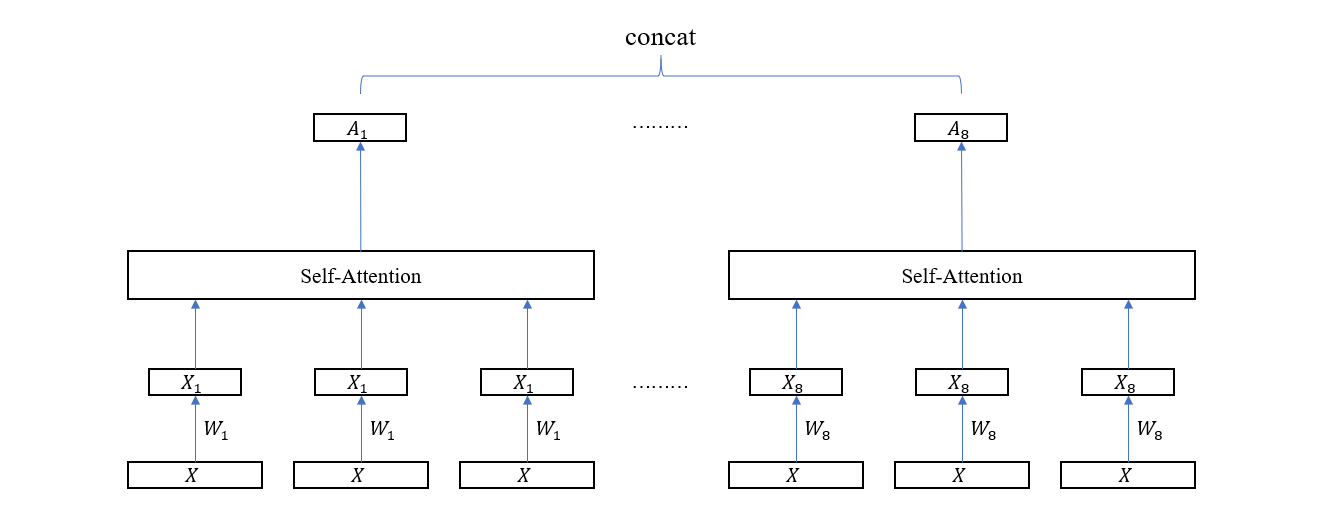
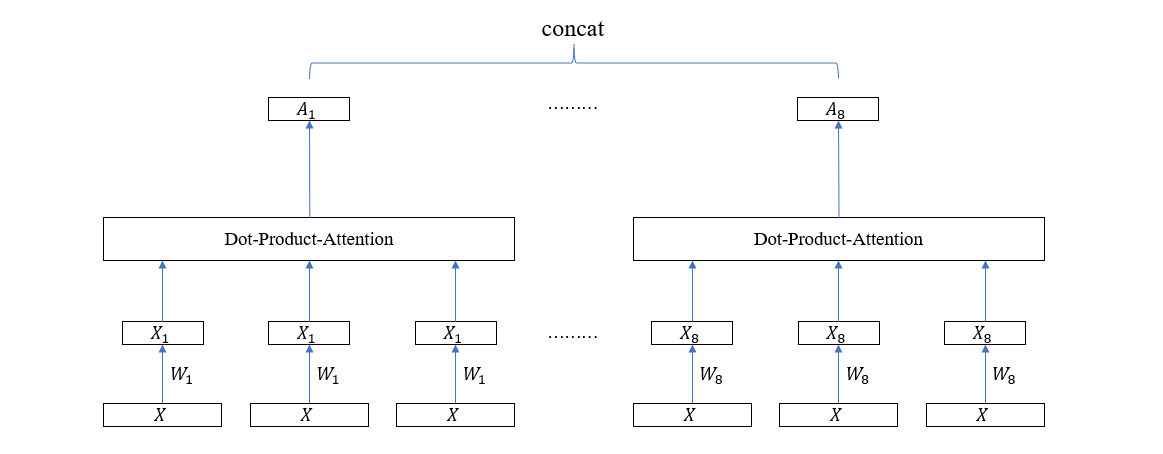
补充点积注意力模型

diff --git a/_manuscript/transformer.md b/_manuscript/transformer.md
@@ -49,6 +49,8 @@ tags: 目标检测 神经网络 DETR Transformer
 
 ![](transformer_self-attention.png)
 
+由于我们采用了点积对齐模型，所以这种注意力模型也叫点积注意力 (Dot-Product Attention)
+
 ##### Transfomer 的自注意力模块
 
 来自 google 的论文 [Attention Is All You Need](https://arxiv.org/abs/1706.03762) 提出了一种被称为 Transformer 的新的 Encoder-Decoder 结构。它的特点是以注意力模块作为基本计算单元，而不是像之前的模型那样以 RNN 或者 LSTM 等结构作为基本构建块。所以这篇论文的名称就很有意思，如果事先不了解情况，会觉得不知所云，但实际上它的内涵很简单，那就是只保留注意力机制，或者更明确地说——使用注意力模块代替 RNN / LSTM 单元。下面我们就来看看 Transfomer 是如何从之前的 Encoder-Decoder 结构一步一步演化过来的（note：下面提到的这些网络结构不一定都是真实存在的，而是我们为了最终能得到 Transformer 而进行的实验，在某种程度上，这些结构反映了论文的作者们思维过程）。首先，我们给出传统的不带注意力机制的 Encoder-Decoder 网络
@@ -95,7 +97,7 @@ tags: 目标检测 神经网络 DETR Transformer
 
 ##### Mulit-Head 注意力
 
-Multi-Head 注意力是以上一节介绍的注意力模块为基本块而组成的，它的目的是构造多个子空间的注意力向量。所以，首先需要将输入向量映射到子空间，方法是使用全连接层，具体表现在乘以一个矩阵 \(X_s = X W\)。假设输入向量的维度为 \(d=512\)，需要构造 \(h=8\) 个子空间注意力，则每个子空间的维度为 \(64\)，于是矩阵 \(W\) 的尺寸就为 \(512 \times 64\)，子空间维度为 \(64\)，将这 8 个子空间注意力向量拼接起来又得到一个 512 维的联合注意力向量。这样一来，Multi-Head 注意力的输入和输出便和普通注意力模块的输入输出统一起来了，前者可以无缝替换后者。计算图如下所示
+Multi-Head 注意力是以上一节介绍的点积注意力模块为基本块而组成的，它的目的是构造多个子空间的注意力向量。所以，首先需要将输入向量映射到子空间，方法是使用全连接层，具体表现在乘以一个矩阵 \(X_s = X W\)。假设输入向量的维度为 \(d=512\)，需要构造 \(h=8\) 个子空间注意力，则每个子空间的维度为 \(64\)，于是矩阵 \(W\) 的尺寸就为 \(512 \times 64\)，子空间维度为 \(64\)，将这 8 个子空间注意力向量拼接起来又得到一个 512 维的联合注意力向量。这样一来，Multi-Head 注意力的输入和输出便和普通注意力模块的输入输出统一起来了，前者可以无缝替换后者。计算图如下所示
 
 ![](transformer_multi-head-attention.png)
 

diff --git a/_posts/2021-05-07-attention-mechanism-2.md b/_posts/2021-05-07-attention-mechanism-2.md
@@ -127,6 +127,7 @@ $$
   $$
 
 最后是由注意力向量组成的矩阵
+
 $$
   \begin{aligned}
   c &= [c_1 \quad c_2 \quad ... \quad c_{T'}] \\
@@ -151,7 +152,7 @@ $$
 $$
   c = softmax(v \tanh(W \vec{H}' + U \vec H)) H^\top
   $$
-  
+
 这里的\\(\vec{H}'\\) 和\\(\vec{H}\\) 都是矩阵序列，尺寸均为\\(T' \times n \times T\\)，其中
 
 $$
@@ -174,11 +175,27 @@ $$
 
 \[
   \begin{aligned}
-  \alpha &= [\alpha_1\quad \alpha_2 \quad ... \quad \alpha_{T'}]\\
-  &= softmax([e_1 \quad e_2 \quad ... \quad e_{T'}])\\
-  &= 
+  e_{j} &= [e_{j1} \quad e_{j2} \quad ... \quad e_{jT}] \\
+  &= [{h'}_{j-1}^\top h_1 \quad {h'}_{j-1}^\top h_2 \quad ... \quad {h'}_{j-1}^\top h_T] \\
+  &= {h'}_{j-1}^\top[ h_1 \quad h_2 \quad ...\quad h_T]\\
+  &= {h'}_{j-1}^\top H
   \end{aligned}
   \]
+
+\[
+  \begin{aligned}
+  \alpha &= [\alpha_1\quad \alpha_2 \quad ... \quad \alpha_{T'}]\\
+  &= softmax([e_1 \quad e_2 \quad ... \quad e_{T'}])\\
+  &= softmax([{h'}_{0}^\top \quad {h'}_{1}^\top\quad ... \quad {h'}_{T'-1}^\top]H)\\
+  &= softmax(H'H)
+  \end{aligned}
+  \]
+
+\[
+  c = \alpha H^\top = softmax(H'H) H^\top
+  \]
+
+其中 \(H' = [{h'}_{0}^\top \quad {h'}_{1}^\top\quad ... \quad {h'}_{T'-1}^\top]\)
 
 
 ##### 总结
